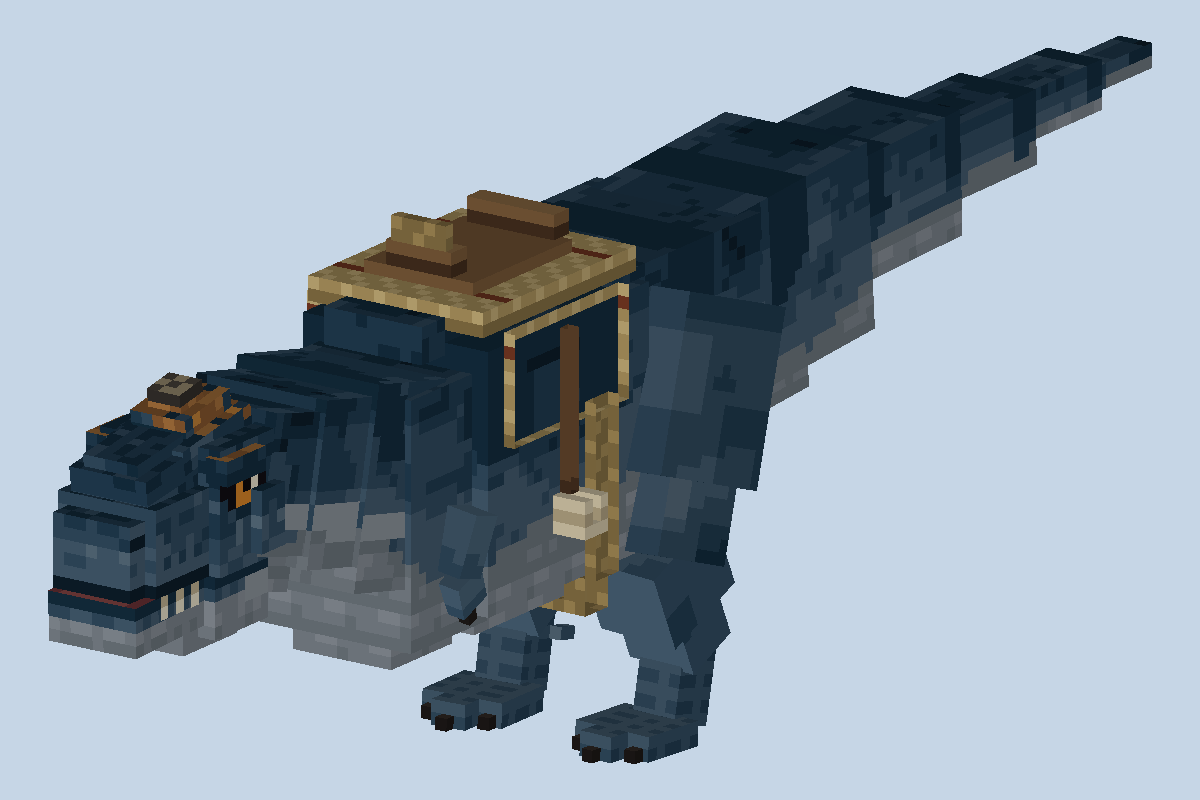
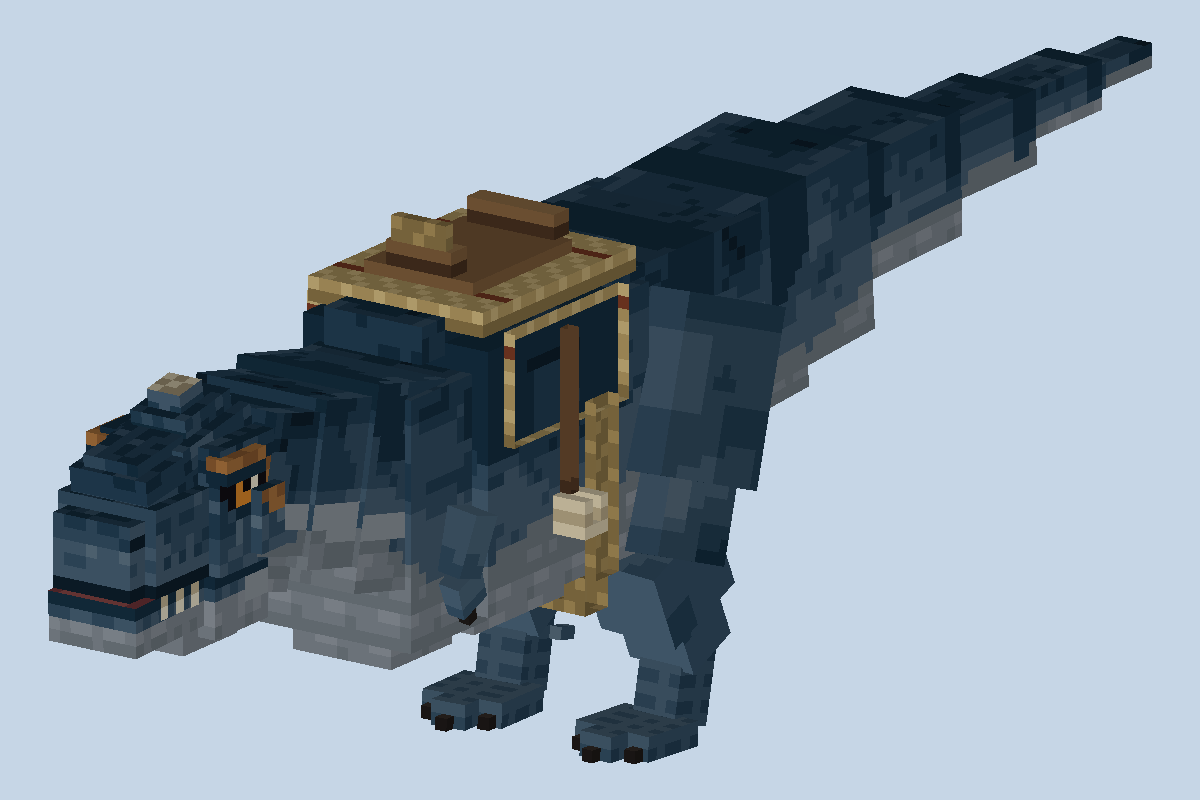
Padrão v2, Majungassauro: o domo fica só pele com a coroa de queratina gasta (o ocre em volta ou em faixa nele ainda lia como chapéu na foto do jogo); o ocre do macho vai para a arcada e atrás do olho. Estudo 14: tabela dos resultados do v2

Changed region(s): [[0.0925, 0.4688, 0.2467, 0.6562], [0.0617, 0.5312, 0.0925, 0.5625]]

diff --git a/tools/modelgen/handmade/majungasaurus/majunga.py b/tools/modelgen/handmade/majungasaurus/majunga.py
@@ -20,9 +20,10 @@ What makes it read as itself and NOT as the remade Carnotaurus, its cousin (stud
 4. it bites and HOLDS (the animations and the Java in Majungasaurine), it does not ram;
 5. its own colour, "cinza-basalto": a dusky blue-grey of the dry Maevarano mud (the study's dry sage was green, and the
    T. rex and the Albertosaurus already hold the greens), the back crossed by BROAD ragged dark bands that ring the
-   tail (the first drawn mark), the dome and the nasal ridge dark horn and, on the male, the bare skin round the dome
-   dull ochre-orange (the second), and a pale stripe from the corner of the mouth down the side of the neck (the
-   third). The belly is a pale warm grey.
+   tail (the first drawn mark), on the male the bare skin of the rugose brow and behind the eye dull ochre-orange
+   (the second; padrão v2, 08/11/2026: the dome stays the skull's own skin with a worn pale crown, since ochre round
+   or under it read as a hat), and a pale stripe from the corner of the mouth down the side of the neck (the third).
+   The belly is a pale warm grey.
 """
 import math
 
@@ -363,14 +364,17 @@ def limb_tone(t):
 
 
 def _ochre(t, sex):
-    """the male's bare display skin: dull ochre blotches on the dome's front slope and flanks (a soft field in body
-    space, ragged, never a ring) that grow denser up the knob; the female has none"""
+    """the male's bare display skin: dull ochre over the rugose brow and spilling back and down behind the eye (the
+    postorbital), ragged at the edge (a soft field in body space). The dome itself stays the roof's skin with a worn
+    pale crown: the v1 ochre plate under a dark cap, and the v2 draft's ochre band under it, both read as a hat
+    (Rodrigo, 08/11/2026). The female has none"""
     if sex != "male":
         return None
-    dy = t.P[1] - DOME[1]
-    if dy < 0.5:
+    dz = t.P[2] - EYE[0]; dy = t.P[1] - EYE[1]
+    if not (-1.5 < dz < 6.0 and -3.0 < dy < 3.5):
         return None
-    if skin2.soft(*skin2.surface_uv(t), 1.7, seed=61) > 0.25 + 0.22 * dy:
+    reach = 1.8 + 0.25 * dz - 0.45 * max(0.0, -dy)
+    if abs(dy - 1.2 + 0.25 * dz) > reach * (0.55 + 0.6 * skin2.soft(*skin2.surface_uv(t), 1.8, seed=61)):
         return None
     k = head2.face_scale(t, cell=2.0, seed=62)
     return "oc0" if k < 0 else ("oc2" if k > 0 else "oc1")
@@ -406,6 +410,10 @@ def head_tone(t, sex):
             return "k4"                       # the lip, a step lighter than the cheek
     hv = (t.P[1] - HEAD_Y[0]) / max(1.0, HEAD_Y[1] - HEAD_Y[0])
     base = ["k4", "k3", "k2"][skin2.bands(hv, t.P[2] * 2.0, (0.40, 0.72), amp=0.07, seed=31)]
+    if n in ("cranium", "temporal") and f in ("east", "west"):
+        oc = _ochre(t, sex)
+        if oc:
+            return oc
     if n in ("maxilla", "premax", "snout") and f in ("east", "west", "north") and v > 0.15:
         return skin2.step(base, head2.rugose(t, seed=9))
     return skin2.step(base, head2.face_scale(t, cell=2.2, seed=32, lift=3))
@@ -420,17 +428,13 @@ def shader_for(sex):
             return saddle_px(t)
         if mat == "claw":
             return p["ker0"] if f != "up" else p["ker1"]
-        if mat == "horn":       # the knob's top: keratin only on the crown, the cap's sides still skin
+        if mat == "horn":       # the knob's crown: worn pale keratin on top only, the cap's sides still skin
             if f == "up":
-                return p["ker3"] if h32(t.i, t.j, 5) % 3 else p["hn2"]
+                return p["ker3"] if h32(t.i, t.j, 5) % 3 else p["ker2"]
             if t.j == 0:
-                return p["hn1"]
-            oc = _ochre(t, sex)
-            return p[oc] if oc else p[skin2.step("k2", head2.face_scale(t, cell=2.0, seed=68))]
-        if mat == "dome":       # the swellings the dome rises out of: the roof's own skin, the male's ochre
-            oc = _ochre(t, sex)
-            if oc:
-                return p[oc]
+                return p["k4"]
+            return p[skin2.step("k3", head2.face_scale(t, cell=2.0, seed=68))]
+        if mat == "dome":       # the swellings the dome rises out of: the roof's own skin, rugose
             if f == "up":
                 return p[skin2.step("k2", head2.face_scale(t, cell=2.2, seed=63))]
             return p[skin2.step("k3" if t.j == 0 else "k2", head2.face_scale(t, cell=2.2, seed=64))]
@@ -441,7 +445,11 @@ def shader_for(sex):
                 return p[skin2.step("k3", head2.rugose(t, seed=65))]
             if f == "down":
                 return p["k0"]
-            return p["k1"] if t.j == t.h - 1 else p[skin2.step("k2", head2.rugose(t, seed=66))]
+            if t.j == t.h - 1:
+                return p["k1"]
+            if sex == "male":
+                return p["oc1" if head2.rugose(t, seed=66) >= 0 else "oc0"]
+            return p[skin2.step("k2", head2.rugose(t, seed=66))]
         if mat == "plate":      # the thick rugose nasals: a broad ridge of knobs and grooves
             if f in ("up", "north"):
                 return p[skin2.step("k2", head2.rugose(t, seed=67, every=2))]
@@ -469,7 +477,8 @@ def shader_for(sex):
 PROF = [None]
 BODY_SCALE = 7.0          # the body's scale cell in texels (padrão v2: one tone step, body neighbours change 0.20-0.30)
 HEAD_Y = [0.0, 1.0]       # the lowest and highest point of the face at rest (the head's countershading)
-DOME = [0.0, 0.0]         # rest-pose z and foot height of the dome (the male's ochre spreads from it)
+DOME = [0.0, 0.0]         # rest-pose z and foot height of the dome
+EYE = [0.0, 0.0]          # rest-pose z and y of the eye's centre (the male's ochre runs back from over it)
 STRIPE = [0.0, 0.0]       # rest-pose y and z of the jaw corner (the neck stripe starts there)
 
 # ------------------------------------------------------------------ the drawn details of the head
@@ -504,6 +513,8 @@ def paint_sex(m, sex="male"):
     ys = [pts[n][:, 1] for n in ("cranium", "maxilla", "premax")]
     HEAD_Y[:] = [min(a.min() for a in ys), max(a.max() for a in ys)]
     DOME[:] = [float(pts["dome"][:, 2].mean()), float(pts["cranium"][:, 1].max())]
+    br = pts["brow"]
+    EYE[:] = [float(br[:, 2].mean()), float(br[:, 1].min()) - 2.0]
     jb = pts["jaw_back"]
     STRIPE[:] = [float(jb[:, 1].max()) + 3.0, float(jb[:, 2].max())]
     return P.paint(m, shader_for(sex), decals=(decals_for(sex),))

diff --git a/docs/estudos/14_POR_QUE_PARECE_IA.md b/docs/estudos/14_POR_QUE_PARECE_IA.md
@@ -210,3 +210,55 @@ vai primeiro. O v2 mantém o v1 no corpo e devolve o detalhe à cabeça, com nú
 - **Corpo:** continua calmo e contínuo, mas com a textura de escama do próprio corpo a um passo de tom
   (vizinhos que mudam 0,20 a 0,30) e as marcas desenhadas da espécie.
 - Checagem: `tools/modelgen/handmade/_engine/headcheck.py` (cabeça x corpo) roda no build dos refeitos novos.
+
+### Resultados do padrão v2 (08/11/2026, branch `pele/v2`)
+
+Os quatro predadores da 1.10.1 refeitos só na cabeça e na escama do corpo; forma, família de cor, tamanho, densidade
+(16,1 a 16,5 tx/bloco), marcas do corpo, animações e comportamento ficaram iguais. Medido pelo
+`_engine/headcheck.py` no build (macho; a fêmea fica a 0,01 dos mesmos números). "Dentes" = texels de dente visíveis
+de lado, com a boca fechada, num lado; "acento" = texels da cabeça com saturação ≥ 0,45, valor ≥ 0,40 e a 20° ou
+mais do matiz do rosto (fora boca, dentes e olho).
+
+| | cabeça: cores | cabeça: vizinhos que mudam | corpo: vizinhos que mudam | cabeça / corpo | dentes | íris | acento |
+|---|---|---|---|---|---|---|---|
+| Majungassauro v1 | 22 | 0,18 | 0,23 | 0,8x | 0,3 | 1 | 110 (o "prato" ocre) |
+| **Majungassauro v2** | 23 | **0,35** | 0,27 | **1,34x** | **5,9** | 3 | 39 |
+| Daspletossauro v1 | 24 | 0,14 | 0,20 | 0,7x | 0 | 1 | 20 |
+| **Daspletossauro v2** | 26 | **0,37** | 0,27 | **1,38x** | **18,5** | 3 | 20 |
+| Albertossauro v1 | 20 | 0,16 | 0,20 | 0,8x | 0,3 | 1 | 19 |
+| **Albertossauro v2** | 24 | **0,35** | 0,27 | **1,33x** | **11,0** | 3 | 22 |
+| Carcarodontossauro v1 | 20 | 0,18 | 0,16 | 1,1x | 1,7 | 1 | 0 |
+| **Carcarodontossauro v2** | 25 | **0,37** | 0,24 | **1,50x** | **16,8** | 3 | 74 |
+| Carnotauro (referência) | 29 | 0,24 | 0,28 | 0,9x | 12,9 | 5 | 3 |
+
+O que mudou em cada um (`tools/modelgen/handmade/<espécie>/`):
+
+- **Comum** (`_engine/head2.py`): escamas pequenas e rugosidade do rosto no espaço do corpo, a um passo de tom
+  (`face_scale`, `rugose`); fileira de dentes de cima pendurada 0,25 px **fora** da mandíbula e dentro do lábio, então
+  aparece de boca fechada e o lábio cobre só a base; linha escura da boca e lábio um tom acima; olho de 3 x 2 por
+  dentro (íris de 3 texels, pupila em fenda, brilho) com contorno escuro sob a arcada; narina com borda clara; escama
+  do corpo em `skin2.scales` só na borda sombreada, a um passo de tom (célula de 6 a 8 texels).
+- **Majungassauro**: o domo deixou de ser chapéu: dois inchaços da própria pele inclinados para a frente sobre o teto
+  do crânio e só a coroa de queratina gasta e clara, sem aba nem anel. O ocre do macho saiu do domo (embaixo dele lia
+  como aba; num primeiro rascunho, em faixa no domo, ainda lia como chapéu na foto do jogo) e foi para a arcada rugosa
+  por cima do olho e uma mancha atrás dele; nasais com nós; íris laranja.
+- **Daspletossauro**: chifre lacrimal com base de pele e ponta de osso queimado; protuberância pós-orbital ferrugem
+  no macho; prateleira da arcada entre os dois; placas do focinho separadas por costuras de pele; cicatrizes do macho;
+  dentes em D de 3 linhas.
+- **Albertossauro**: crista lacrimal triangular em dois degraus (base de pele, pele de exibição ferrugem no macho,
+  ponta de queratina); arcada baixa; faixa escura do olho até a articulação da mandíbula; dentes finos.
+- **Carcarodontossauro**: prateleira da arcada e crista nucal com lados de pele e só a borda de chifre; pele de
+  exibição vermelho-tijolo sobre o olho e na crista nucal do macho; sulcos inclinados do maxilar; máscara; lâminas de
+  3 linhas. O corpo, que estava liso demais (0,16), ganhou a escama (0,24).
+- **Conserto em `skin2.step`**: subir um tom a partir de `k4` caía no cinza da barriga (`b0`) e punha pontos claros
+  soltos na pele escura; agora sobe para `k5`.
+
+Cor (`colourcheck.py --remade`): todos a 10 ou mais de qualquer refeito (mais perto: Majungassauro 12,2 do
+Anquilossauro, Daspletossauro 11,1 do Dakotaraptor, Albertossauro 11,2 do Anquilossauro, Carcarodontossauro 12,6 do
+Protocerátopo). Ícones do mapa regenerados (`tools/spritegen/map_icons.py`).
+
+Imagens: `art/<espécie>/previews/v2_cabeca_antes_depois.png` (v1, v2 e Carnotauro, macho e fêmea, mesmo ângulo),
+`lateral.png` e `tres_quartos.png` atualizadas, e as folhas
+[`padrao_v2_cabecas.png`](../../art/estudos/1.10/padrao_v2_cabecas.png) (as quatro v2 ao lado do Carnotauro e do
+T. rex, 3/4) e [`padrao_v2_cabecas_perfil.png`](../../art/estudos/1.10/padrao_v2_cabecas_perfil.png) (de lado, boca
+fechada).
